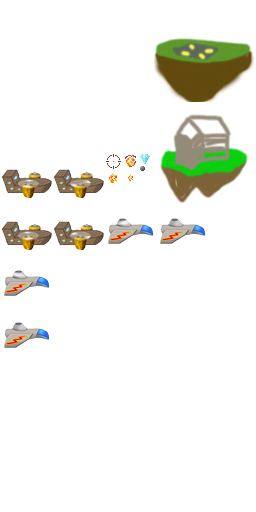
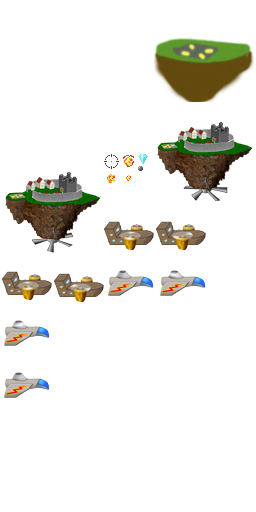
Updated city sprite, now it's animated

diff --git a/app/assets/javascripts/art.js b/app/assets/javascripts/art.js
@@ -4,7 +4,7 @@ var artSprite = {
 
   "bullet.png":
   {
-    "frame": {"x":140,"y":166,"w":5,"h":5},
+    "frame": {"x":138,"y":166,"w":5,"h":5},
     "rotated": false,
     "trimmed": false,
     "spriteSourceSize": {
@@ -18,7 +18,7 @@ var artSprite = {
 
   "bullet_hit_0000.png":
   {
-    "frame": {"x":123,"y":171,"w":15,"h":15},
+    "frame": {"x":121,"y":171,"w":15,"h":15},
     "rotated": false,
     "trimmed": false,
     "spriteSourceSize": {
@@ -32,7 +32,7 @@ var artSprite = {
 
   "bullet_hit_0001.png":
   {
-    "frame": {"x":106,"y":171,"w":15,"h":15},
+    "frame": {"x":104,"y":171,"w":15,"h":15},
     "rotated": false,
     "trimmed": false,
     "spriteSourceSize": {
@@ -46,7 +46,7 @@ var artSprite = {
 
   "bullet_hit_0002.png":
   {
-    "frame": {"x":123,"y":154,"w":15,"h":15},
+    "frame": {"x":121,"y":154,"w":15,"h":15},
     "rotated": false,
     "trimmed": false,
     "spriteSourceSize": {
@@ -58,7 +58,21 @@ var artSprite = {
     "sourceSize": {"w":15,"h":15}
   }, 
 
-  "city.png":
+  "city_0000.png":
+  {
+    "frame": {"x":2,"y":154,"w":100,"h":100},
+    "rotated": false,
+    "trimmed": false,
+    "spriteSourceSize": {
+      "x":0,
+      "y":0,
+      "w":100,
+      "h":100
+    },
+    "sourceSize": {"w":100,"h":100}
+  }, 
+
+  "city_0001.png":
   {
     "frame": {"x":154,"y":104,"w":100,"h":100},
     "rotated": false,
@@ -88,7 +102,7 @@ var artSprite = {
 
   "crystal.png":
   {
-    "frame": {"x":140,"y":154,"w":10,"h":10},
+    "frame": {"x":138,"y":154,"w":10,"h":10},
     "rotated": false,
     "trimmed": false,
     "spriteSourceSize": {
@@ -102,7 +116,7 @@ var artSprite = {
 
   "cursor.png":
   {
-    "frame": {"x":106,"y":154,"w":15,"h":15},
+    "frame": {"x":104,"y":154,"w":15,"h":15},
     "rotated": false,
     "trimmed": false,
     "spriteSourceSize": {
@@ -116,7 +130,7 @@ var artSprite = {
 
   "pirate_0000.png":
   {
-    "frame": {"x":2,"y":310,"w":50,"h":50},
+    "frame": {"x":2,"y":360,"w":50,"h":50},
     "rotated": false,
     "trimmed": false,
     "spriteSourceSize": {
@@ -130,7 +144,7 @@ var artSprite = {
 
   "pirate_0001.png":
   {
-    "frame": {"x":2,"y":258,"w":50,"h":50},
+    "frame": {"x":158,"y":258,"w":50,"h":50},
     "rotated": false,
     "trimmed": false,
     "spriteSourceSize": {
@@ -144,7 +158,7 @@ var artSprite = {
 
   "pirate_0002.png":
   {
-    "frame": {"x":158,"y":206,"w":50,"h":50},
+    "frame": {"x":106,"y":258,"w":50,"h":50},
     "rotated": false,
     "trimmed": false,
     "spriteSourceSize": {
@@ -158,7 +172,7 @@ var artSprite = {
 
   "pirate_0003.png":
   {
-    "frame": {"x":106,"y":206,"w":50,"h":50},
+    "frame": {"x":2,"y":308,"w":50,"h":50},
     "rotated": false,
     "trimmed": false,
     "spriteSourceSize": {
@@ -172,7 +186,7 @@ var artSprite = {
 
   "ship_0000.png":
   {
-    "frame": {"x":54,"y":206,"w":50,"h":50},
+    "frame": {"x":54,"y":258,"w":50,"h":50},
     "rotated": false,
     "trimmed": false,
     "spriteSourceSize": {
@@ -186,7 +200,7 @@ var artSprite = {
 
   "ship_0001.png":
   {
-    "frame": {"x":2,"y":206,"w":50,"h":50},
+    "frame": {"x":2,"y":256,"w":50,"h":50},
     "rotated": false,
     "trimmed": false,
     "spriteSourceSize": {
@@ -200,7 +214,7 @@ var artSprite = {
 
   "ship_0002.png":
   {
-    "frame": {"x":54,"y":154,"w":50,"h":50},
+    "frame": {"x":156,"y":206,"w":50,"h":50},
     "rotated": false,
     "trimmed": false,
     "spriteSourceSize": {
@@ -214,7 +228,7 @@ var artSprite = {
 
   "ship_0003.png":
   {
-    "frame": {"x":2,"y":154,"w":50,"h":50},
+    "frame": {"x":104,"y":206,"w":50,"h":50},
     "rotated": false,
     "trimmed": false,
     "spriteSourceSize": {

diff --git a/app/assets/stylesheets/art.scss b/app/assets/stylesheets/art.scss
@@ -4,7 +4,7 @@
 
 
 @function sprite_position_bullet(){
-  @return -140px -166px;
+  @return -138px -166px;
 }
 @mixin sprite_bullet($width: 5px, $height: 5px) {
   width: $width;
@@ -17,7 +17,7 @@
 }
 
 @function sprite_position_bullet_hit_0000(){
-  @return -123px -171px;
+  @return -121px -171px;
 }
 @mixin sprite_bullet_hit_0000($width: 15px, $height: 15px) {
   width: $width;
@@ -30,7 +30,7 @@
 }
 
 @function sprite_position_bullet_hit_0001(){
-  @return -106px -171px;
+  @return -104px -171px;
 }
 @mixin sprite_bullet_hit_0001($width: 15px, $height: 15px) {
   width: $width;
@@ -43,7 +43,7 @@
 }
 
 @function sprite_position_bullet_hit_0002(){
-  @return -123px -154px;
+  @return -121px -154px;
 }
 @mixin sprite_bullet_hit_0002($width: 15px, $height: 15px) {
   width: $width;
@@ -55,16 +55,29 @@
   }
 }
 
-@function sprite_position_city(){
-  @return -154px -104px;
+@function sprite_position_city_0000(){
+  @return -2px -154px;
 }
-@mixin sprite_city($width: 100px, $height: 100px) {
+@mixin sprite_city_0000($width: 100px, $height: 100px) {
   width: $width;
   height: $height;
   background: {
     repeat: no-repeat;
     image: sprite_image_url();
-    position: sprite_position_city();
+    position: sprite_position_city_0000();
+  }
+}
+
+@function sprite_position_city_0001(){
+  @return -154px -104px;
+}
+@mixin sprite_city_0001($width: 100px, $height: 100px) {
+  width: $width;
+  height: $height;
+  background: {
+    repeat: no-repeat;
+    image: sprite_image_url();
+    position: sprite_position_city_0001();
   }
 }
 
@@ -82,7 +95,7 @@
 }
 
 @function sprite_position_crystal(){
-  @return -140px -154px;
+  @return -138px -154px;
 }
 @mixin sprite_crystal($width: 10px, $height: 10px) {
   width: $width;
@@ -95,7 +108,7 @@
 }
 
 @function sprite_position_cursor(){
-  @return -106px -154px;
+  @return -104px -154px;
 }
 @mixin sprite_cursor($width: 15px, $height: 15px) {
   width: $width;
@@ -108,7 +121,7 @@
 }
 
 @function sprite_position_pirate_0000(){
-  @return -2px -310px;
+  @return -2px -360px;
 }
 @mixin sprite_pirate_0000($width: 50px, $height: 50px) {
   width: $width;
@@ -121,7 +134,7 @@
 }
 
 @function sprite_position_pirate_0001(){
-  @return -2px -258px;
+  @return -158px -258px;
 }
 @mixin sprite_pirate_0001($width: 50px, $height: 50px) {
   width: $width;
@@ -134,7 +147,7 @@
 }
 
 @function sprite_position_pirate_0002(){
-  @return -158px -206px;
+  @return -106px -258px;
 }
 @mixin sprite_pirate_0002($width: 50px, $height: 50px) {
   width: $width;
@@ -147,7 +160,7 @@
 }
 
 @function sprite_position_pirate_0003(){
-  @return -106px -206px;
+  @return -2px -308px;
 }
 @mixin sprite_pirate_0003($width: 50px, $height: 50px) {
   width: $width;
@@ -160,7 +173,7 @@
 }
 
 @function sprite_position_ship_0000(){
-  @return -54px -206px;
+  @return -54px -258px;
 }
 @mixin sprite_ship_0000($width: 50px, $height: 50px) {
   width: $width;
@@ -173,7 +186,7 @@
 }
 
 @function sprite_position_ship_0001(){
-  @return -2px -206px;
+  @return -2px -256px;
 }
 @mixin sprite_ship_0001($width: 50px, $height: 50px) {
   width: $width;
@@ -186,7 +199,7 @@
 }
 
 @function sprite_position_ship_0002(){
-  @return -54px -154px;
+  @return -156px -206px;
 }
 @mixin sprite_ship_0002($width: 50px, $height: 50px) {
   width: $width;
@@ -199,7 +212,7 @@
 }
 
 @function sprite_position_ship_0003(){
-  @return -2px -154px;
+  @return -104px -206px;
 }
 @mixin sprite_ship_0003($width: 50px, $height: 50px) {
   width: $width;
